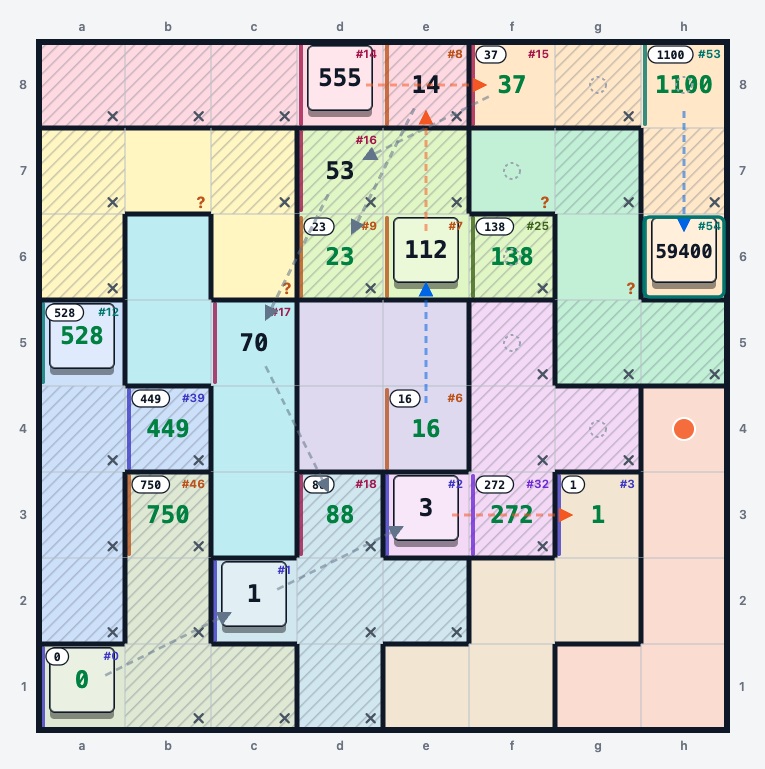
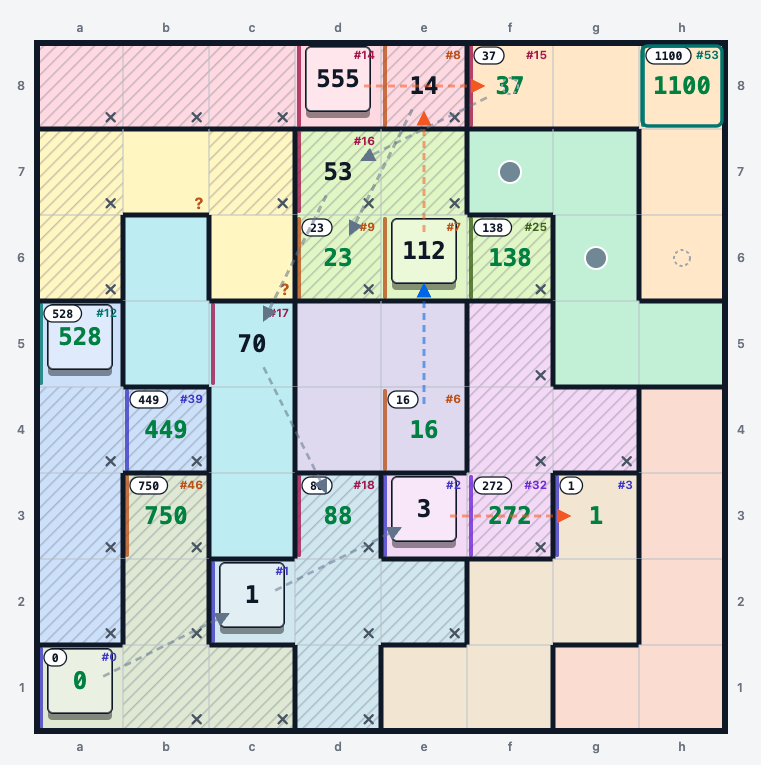
Final pass on the July write-up
Author's revisions: the third-family caveat rewritten in their own words, the
AI notes acted on and removed, screenshots renumbered so each stage has its own
image (SS8 all checkpoints, SS9 after crux 1, SS10 after crux 2, SS11 the
solution), the checkpoint 6 clarification folded into the prose, and the tools
and verification sections dropped.

Copy-edit only on top of that, no reasoning changed:

- repaired a sentence in the caveat where two drafts had spliced together
- restored the bullet stating #23 is Z's tower and #52 is its ground twin, which
  had been deleted and left "They are different squares" with no antecedent
- "Ok back to crux 1" demoted from H2 to H3 so it nests inside Crux 1 rather
  than closing the section
- typos: "format tall", "dispell", "biforcating"
- removed a trailing horizontal rule left at the end of the file

Checked: all 43 location/move/value triples match the verified solution, and
all eleven referenced screenshots exist.

Changed region(s): [[0.0302, 0.0301, 0.9974, 0.9922], [0.8765, 0.5412, 0.9067, 0.5712]]

diff --git a/2026-07/SOLUTION.md b/2026-07/SOLUTION.md
@@ -6,9 +6,9 @@ Jane Street, July 2026 — [‘Pent-Up’ Frustration 3 / Knight Moves 7](https:
 
 ---
 
-## AI disclaimer + what I did
+## AI use disclaimer
 
-I solved this puzzle with AI assistance, specifically I had AI build a sandbox tool to use similar to sudokupad.  I then made logical deductions and tried to solve the entire puzzle by hand.  This proved quite doable (surprising), but I also had AI make me a tooling agent to help me enumerate the math pathways which made figuring out the series of jump ups, jump downs, and jump flats a lot easier once the 3 move rule was dispelled.  I'll try to walk through my logic starting from early assumptions.  I had AI help me write this too — using a recorded transcript of my muttering as I went.  I think AI could have easily one-shotted this puzzle to be honest, but it was very fun to step into the mind of the puzzle setter and try my hand at it.
+I solved this puzzle with AI assistance, specifically I had AI build a sandbox tool to use similar to sudokupad.  I then made logical deductions and tried to solve the entire puzzle by hand.  This proved quite doable (surprising), but I also had AI make me a tooling agent to help me enumerate the math pathways which made figuring out the series of jump ups, jump downs, and jump flats a lot easier once the 3 move rule was dispelled.  I eventually got stuck, but by then had reduced that search space so much the final result took 20 milliseconds to query.  I'll try to walk through my logic starting from early assumptions.  I had AI help me with this writeup too — mostly so I wouldn't have to format all the notation in markdown which is tedious.  I think AI could have easily one-shotted this puzzle to be honest, but it was very fun to solve logically so I'm glad I put up guardrails and gave it a shot myself.
 
 ---
 
@@ -87,12 +87,6 @@ I was quickly able to key in on the `g3 = 1` clue as impossible other than as a 
 
 This is a very useful and restrictive start! Three towers placed — `a1[T]`, `c2[X]`, `e3[F]`.
 
-> **[AI note — verified, optional addition]** I checked this exhaustively and it holds. Two
-> small gaps you might want to spell out, since a reader will hit them:
-> (a) score `1` is unreachable at `#6` or `#9`, which is what makes `g3` *have* to be `#3`;
-> (b) there is a second arithmetic route to a clue value at `#3` — `÷1 ×2 ÷3` lands back on
-> `0` — but `0` is only printed on `a1`, and revisiting is illegal, so it dies immediately.
-> Worth one sentence, because it's the first place the no-revisit rule earns its keep.
 
 ## Checkpoint 2
 
@@ -130,14 +124,9 @@ Both `b7` and `c6` are in region **U**, so whichever it is, U's tower is now spo
 
 ## Checkpoint 6
 
-We must reach `d3 #18 = 88` in 3 jumps, with simple addition each step.  There are a number of candidate paths, but importantly the first move must be `d7` or `g6`.  This will be important later, as we will rule out `g6` elegantly.  At this point, I also started greying out cells that could not contain towers.
+We must reach `d3 #18 = 88` in 3 jumps, with simple addition each step.  There are a number of candidate paths, but importantly the first move must be `d7` or `g6`, since the other two paths starting with `h7` or `e6` quickly die.  This will be important later, as we will rule out `g6` elegantly.  At this point, I also started greying out cells that could not contain towers.
 
 > `f8 #15 = 37` → `+16` → `(d7 or g6) #16 = 53` → `+17` → `#17 = 70` → `+18` → `d3 #18 = 88`
-
-> **[AI note — clarity]** `f8` has four knight-neighbours: `d7`, `h7`, `e6`, `g6`. You say the
-> first move must be `d7` or `g6` but don't say why the other two die. `e6` is already used at
-> `#7`; `h7` fails because from `h7` the only onward knight moves are `f6`, `g5` and `f8`, and
-> none of those is a knight's move from `d3`. One line would close it.
 
 ![Sixth Checkpoint](SS6.png)
 
@@ -169,29 +158,15 @@ Note that 5 additional towers are used, leaving only one tower unused after arri
 
 ![All Checkpoints](SS8.png)
 
-> **[AI note — asset]** `SS8.png` is used here *and* again under Crux 1. The image already
-> shows `d7 #16 = 53`, `c5 #17 = 70` and `h6▲ #54 = 59400`, which are Crux 1 results — so it
-> belongs at Crux 1, and this slot wants a screenshot taken *before* that deduction.
 
 ## Crux 1: f7 and g6 are heavily restricted
 
 Two strong restrictions allow us to make progress from this point.  First is the pathing from `d3` to `f6`.  We need to jump into `f6` from level ground after jumping off a tower that is the third tower in a row.  This pathing that requires 3 towers ends up heavily restrictive.  The towers can either occur in the bottom two regions and the Z pentomino in the top right.  Or, they can occur in the center region, the N pentomino, and the Z pentomino in the top right.  In the Z pentomino, the towers can be on `f7`, `g6`, or `h5` due to the requirement of landing a knight's move from `f6` after the jump.  However, `h5` can be ruled out because there is no valid tower square it can be jumped to from.  So there is a tower on either `f7` or `g6` during the `d3` to `f6` pathing!
 
-Those two cells are already very interesting — they are the only cells reachable from `h8`!  Since `h8` is reached via a normal ground level knight's jump, one of `f7` and `g6` must be used to reach `h8`.  Thus, both `g6` and `f7` are accounted for!!
-
-Concretely:
-
-- `h8 #53 = 1100` is arrived at via `+53`, a **level** move into a ground square. Its predecessor
-  `#52` must be a ground knight-neighbour of `h8`, and there are exactly two: **`f7` and `g6`**.
-- Moves 21 through 23 jump from tower to tower to tower.  There are only a few valid ways in the grid to do this: `c4▲ #21` → `e5▲ #22` → `f7▲/g6▲ #23`, or `g2▲ #21` → `h4▲ #22` → `f7▲/g6▲ #23`.  Note that both end on either `f7` or `g6`.  (There is a third family, `h7▲/g5▲/h3▲`, which is the one exception — it doesn't end on `f7` or `g6`, and I kill it separately below.)
-- So `#23` ∈ {`f7▲`, `g6▲`} — region **Z**'s tower — and `#52` ∈ {`f7`, `g6`} on the ground.
-  They are different squares, so **the path consumes both**.
-
 ### Caveat: I missed a third family here
 
-Being honest about how this actually went — when I solved it I only found the two families
-above. There is a third. Enumerating every legal `d3 #18` → `f6 #25` chain gives **16
-survivors**, in three region-triples rather than two:
+Ok, so I totally missed a third family here. Being honest about how this actually went — when
+I solved it I only found the two families above. There is a third, which is wrong, but very hard to prove so naturally (I tried very hard). Enumerating every legal `d3 #18` → `f6 #25` chain gives **16 survivors**, in three region-triples rather than two:
 
 | towers at `#21 #22 #23` | regions | ends on |
 |---|---|---|
@@ -199,24 +174,21 @@ survivors**, in three region-triples rather than two:
 | `g2▲ → h4▲ → f7▲/g6▲` | W, L, Z | `f7` or `g6` |
 | **`h7▲ → g5▲ → h3▲`** (and its mirror) | **V, Z, L** | `h3` or `h7` |
 
-In that third one Z's tower is `g5` and `#23` lands on `h3` or `h7`, so "both end on `f7` or
-`g6`" isn't true of it, and the `f7`/`g6` argument below doesn't cover it. My solution came out
-of the two families I *did* consider and turned out to be the right one — but that was partly
-luck, because nothing I argue here rules the third one out.
-
-Once I knew it existed I went looking for a clean way to kill it by hand. The closest I got is
-genuinely nice: in that family `h3` is L's tower, so the `×33` climb out of `f3` has to land on
-`f1`, which leaves only N and O for the `#30` tower — and of the three ways a tower in N or O
+I tried to prove it dead, and the closest I got is genuinely nice: in that family `h3` is L's tower, so the `×33` climb out of `f3` has to land on `f1`, which leaves only N and O for the `#30` tower — and of the three ways a tower in N or O
 can drop into a knight's move of `f3`, the best one is blocked because `g5` is that family's own
 Z tower and can't be stood on at ground level. That kills some of it, but not all: `d4▲ → d2`
-survives, and so does `c5▲ → e5` in one of the two chains.
+survives, and so does `c5▲ → e5` in one of the two chains.  I couldn't figure out a way to dispel either without bifurcating.
 
-**The only way I found to finish it off was a tree search, which I handed to AI.** Those last
-routes do die — they just die at moves `#47`–`#51`, where the stretch from `b3 #46` to
-`h8 #53` runs out of unused squares. That is not something I was going to find by hand.
+### Ok back to crux 1
 
-Worth noting the conclusion never actually depended on this: `h6▲ #54` is forced even when
-nothing whatsoever is assumed past `#53`.
+Assuming that `f7` and `g6` must contain a tower... Those two cells are very interesting — they are the only cells reachable from `h8`!  Since `h8` is reached via a normal ground level knight's jump, one of `f7` and `g6` must be used to reach `h8`.  Thus, both `g6` and `f7` are accounted for!!
+Concretely:
+
+- `h8 #53 = 1100` is arrived at via `+53`, a **level** move into a ground square. Its predecessor
+  `#52` must be a ground knight-neighbour of `h8`, and there are exactly two: **`f7` and `g6`**.
+- Moves 21 through 23 jump from tower to tower to tower.  There are only a few valid ways in the grid to do this: `c4▲ #21` → `e5▲ #22` → `f7▲/g6▲ #23`, or `g2▲ #21` → `h4▲ #22` → `f7▲/g6▲ #23`.  Note that both end on either `f7` or `g6`.
+- So `#23` ∈ {`f7▲`, `g6▲`} — region **Z**'s tower — and `#52` ∈ {`f7`, `g6`} on the ground.
+  They are different squares, so **the path consumes both**.
 
 **Key takeaway: no other part of the path can contain `f7` or `g6`.**
 
@@ -230,23 +202,17 @@ Second, there is no longer a valid level knight's move *out* of `h8`.  Since we 
 
 > `h8 #53 = 1100` → `×54` → `h6▲ #54 = 59400`
 
-![After crux 1](SS8.png)
+![After crux 1](SS9.png)
 
 ## Crux 2: which towers does the `d3` → `f6` path take?
 
 To prove that `f7`/`g6` had a tower, we demonstrated that the `d3` → `f6` path must have towers at either `c4` and `e5` or at `g2` and `h4`.  We can determine that the `c4`/`e5` solution is correct by examining the `f3` → `b4` path.  Since that path immediately steps up onto a tower (`×33`), we must place a tower 2 cells away in a straight orthogonal direction from `f3`.  The candidates are `f5`, `f1` and `h3` — and `f5` is in region **F**, whose tower is already `e3`.  So the `#33` tower is `f1[W]` or `h3[L]`.  That removes `g2[W]` and `h4[L]` as valid pathing solutions for `d3` → `f6`, since they would consume both W and L and leave nothing for `#33`.  So the towers are at `c4` and `e5`.
 
-> **[AI note — verified, worth one more line]** `c4`'s straight-2 neighbours are `c6`, `c2`,
-> `a4`, `e4`. `c2` and `e4` are already used, which leaves `c6` and `a4` — so it's worth saying
-> why `c6` dies: reaching `c6` at `#20` would need `#19` to be `e5`, but `e5` has to be the
-> tower at `#22`. That leaves `a4`, and then `#19` must be `b2` (the only knight-neighbour of
-> both `d3` and `a4` that isn't `c5`, which is taken at `#17`).
-
 Moreover, the only valid location to jump up to `c4` from is `a4`, which determines the pathing from `d3` to `e5` completely:
 
 > `d3 #18 = 88` → `+19` → `b2 #19 = 107` → `+20` → `a4 #20 = 127` → `×21` → `c4▲ #21 = 2667` → `+22` → `e5▲ #22 = 2689`
 
-![After crux 2](SS9.png)
+![After crux 2](SS10.png)
 
 ## Endgame: I gave it to AI
 
@@ -258,7 +224,7 @@ seven level moves running out to `h8 #53` — and kept getting to the point wher
 plausible branches and no clean way to choose between them. Eventually I just handed it to AI
 to solve.
 
-I don't feel bad about that, because by then the problem space was *deeply* restricted, and
+I don't feel too bad about that, because by then the problem space was *deeply* restricted, and
 restricting it was the actual work:
 
 - all twelve clue cells placed, at known move numbers, with `K = 7`
@@ -275,6 +241,8 @@ deductions above had done their job.
 ---
 
 ## The solution
+
+![Solution](SS11.png)
 
 ### Towers
 
@@ -342,34 +310,3 @@ For each unvisited square, sum the scores of its orthogonally adjacent squares t
 path; add those nine sums.
 
 ## **Answer: 33609**
-
----
-
-## Tools
-
-Built along the way, all self-contained HTML in this directory:
-
-- **[`knight-sandbox.html`](knight-sandbox.html)** — the board. Place and remove towers, mark
-  squares `?` / `✗ no tower`, walk the knight with legal moves highlighted and the resulting
-  score previewed on hover. Runs can start anywhere, float without a move number until one is
-  known, be built forwards *or backwards* (inverting each operation), and join up when they
-  meet — sharing out their numbering.
-- **[`score-paths.html`](score-paths.html)** — pure score arithmetic, no board. Given a score,
-  a move number and an altitude, enumerate what is reachable, connect two scores in a fixed
-  number of moves, or chain clue values checkpoint to checkpoint. This is what found `K = 7`.
-- **[`print-grids.html`](print-grids.html)** — blank grids, four to a page.
-
-Neither of those tools solves anything: they answer *"is this legal, and what does it score"*,
-never *"what should I play next"*. The deductions above — the forced opening, `K = 7`, the
-`f7`/`g6` squeeze, most of the tower placements — were made by hand with the sandbox doing the
-bookkeeping. The two places I handed over to a genuine search are both flagged where they
-happen: killing the last routes of the third tower family, and the endgame fill.
-
-## Verification
-
-The final path was checked independently of the search that produced it: replaying from score
-0, confirming every displacement really is a signed permutation of `(0,1,2)`, doing the
-arithmetic in exact rationals to catch any non-integer division, confirming all 13 towers sit
-one per region, that all 12 clue cells hit their printed values at the `K = 7` recording
-moments and nowhere else, and that the path ends exactly when the last tower is reached.
-No errors. The solution is unique given the deductions above.
